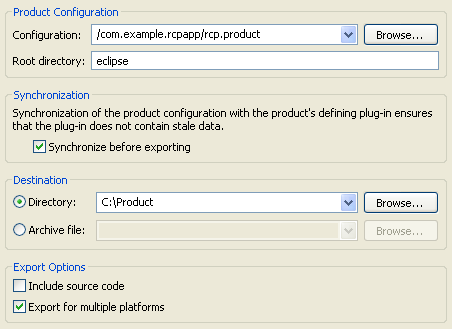
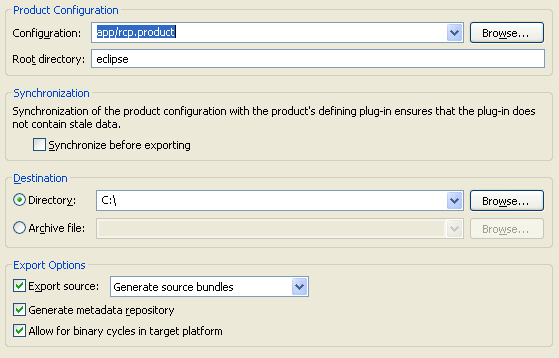
Bug 275833 - Update Export dialog screenshot in export_plugins.htm

Changed region(s): [[0.0, 0.2128, 0.9912, 1.0], [0.0, 0.0, 0.9912, 0.2432]]

diff --git a/bundles/org.eclipse.pde.doc.user/guide/tools/export_wizards/export_features.htm b/bundles/org.eclipse.pde.doc.user/guide/tools/export_wizards/export_features.htm
@@ -25,7 +25,7 @@
 
 <h2>Destination</h2>
 <p>You can choose to export the features and their constituent plug-ins to a directory or to a ZIP archive. You can also choose to export the features in a runnable format and have them installed into your currently running Eclipse host.</p>
-<p><img src="../../images/export_wizards/destination_features.png" alt="Destination" ></p>
+<p><img src="../../images/export_wizards/destination.png" alt="Destination" ></p>
 <p>If you choose to export to a <strong>Directory</strong> (the default), the features will be placed in a <em>features/</em> subdirectory and the plug-ins will be placed in a <em>plugins/</em> subdirectory of the chosen directory.</p>
 <p>If you choose to export to an <strong>Archive file</strong>, all of the features and plug-ins will be packaged into a single ZIP archive. Also, the root directory structure inside the ZIP  starts with <em>features/</em> and <em>plugins/</em>. </p>
 <p>If you choose to export and <strong>Install</strong> the features will be exported in a runnable format and a p2 repository will be generated.  After the export completes, an installation operation will run to install the features.  You will be prompted to restart Eclipse when the installation completes.  To uninstall your features you must use the <strong>Installation Details</strong> button on the About Dialog (available by going to Help &gt; About Eclipse SDK). For more details see <a href="../../../tasks/ui_export_install_into_host.htm">Exporting and Installing into the Host</a></p>  
@@ -48,7 +48,7 @@
 
 <h2>JAR Signing </h2>
 <p>The <strong>JAR Signing</strong> tab is only visible when the <strong>Package as individual JAR archives</strong> option is selected on the <strong>Options</strong> tab. </p>
-<p><img src="../../images/export_wizards/jar_signing_features.png" alt="JAR Signing" ></p>
+<p><img src="../../images/export_wizards/jar_signing.png" alt="JAR Signing" ></p>
 <p>To sign the JARs, <em><strong>you must be running Eclipse with a full JDK, rather than just a JRE. </strong></em></p>
 <p>The <strong>Keystore location</strong>,  <strong>Keypass</strong>, <strong>Alias</strong> and <strong>Password</strong> fields are all required for the signing operation.</p>
 

diff --git a/bundles/org.eclipse.pde.doc.user/guide/tools/export_wizards/export_plugins.htm b/bundles/org.eclipse.pde.doc.user/guide/tools/export_wizards/export_plugins.htm
@@ -23,7 +23,7 @@
 
 <h2>Destination</h2>
 <p>You can choose to export the plug-ins to a directory or to a ZIP archive.  You can also choose to export the plug-ins in a runnable format and have them installed into your currently running Eclipse host.</p>
-<p><img src="../../images/export_wizards/destination_plugins.png" alt="Destination" ></p>
+<p><img src="../../images/export_wizards/destination.png" alt="Destination" ></p>
 <p>If you choose to export to a <strong>Directory</strong> (the default), the plug-ins will be placed in a <em>plugins/</em> subdirectory of the chosen directory.</p>
 <p>If you choose to export to an <strong>Archive File</strong>, all the plug-ins will be packaged in a single ZIP archive. The directory structure inside the ZIP also starts with <em>plugins/</em> at its root. </p>
 <p>If you choose to export and <strong>Install</strong> the plug-ins will be exported in a runnable format and a p2 repository will be generated.  After the export completes, an installation operation will run to install the plug-ins.  You will be prompted to restart Eclipse when the installation completes.  To uninstall your plug-ins you must use the <strong>Installation Details</strong> button on the About Dialog (available by going to Help &gt; About Eclipse SDK). For more details see <a href="../../../tasks/ui_export_install_into_host.htm">Exporting and Installing into the Host</a></p>  
@@ -45,7 +45,7 @@
 
 <h2>JAR Signing </h2>
 <p>The <strong>JAR Signing</strong> tab is only available when the <strong>Package as individual JAR archives</strong> option is selected on the <strong>Options</strong> tab. </p>
-<p><img src="../../images/export_wizards/jar_signing_plugins.png" alt="JAR Signing" ></p>
+<p><img src="../../images/export_wizards/jar_signing.png" alt="JAR Signing" ></p>
 <p>To sign the JARs, <em><strong>you must be running Eclipse with a full JDK, rather than just a JRE. </strong></em></p>
 <p>The <strong>Keystore location</strong>, <strong>Keypass</strong>, <strong>Alias</strong> and <strong>Password</strong> fields are all required  for the signing operation.</p>
 
